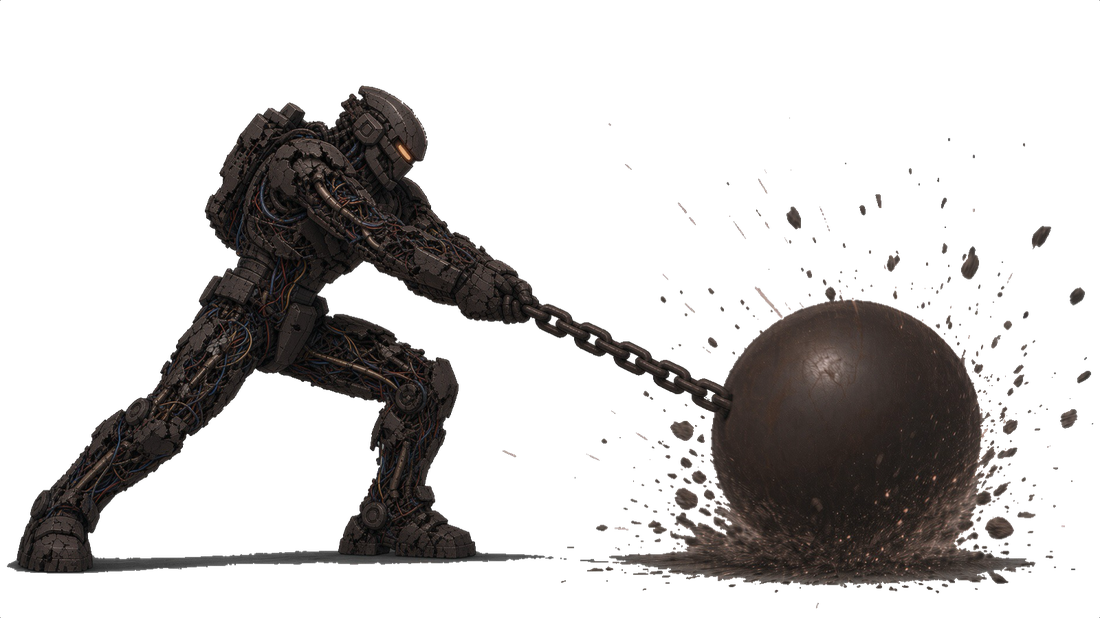
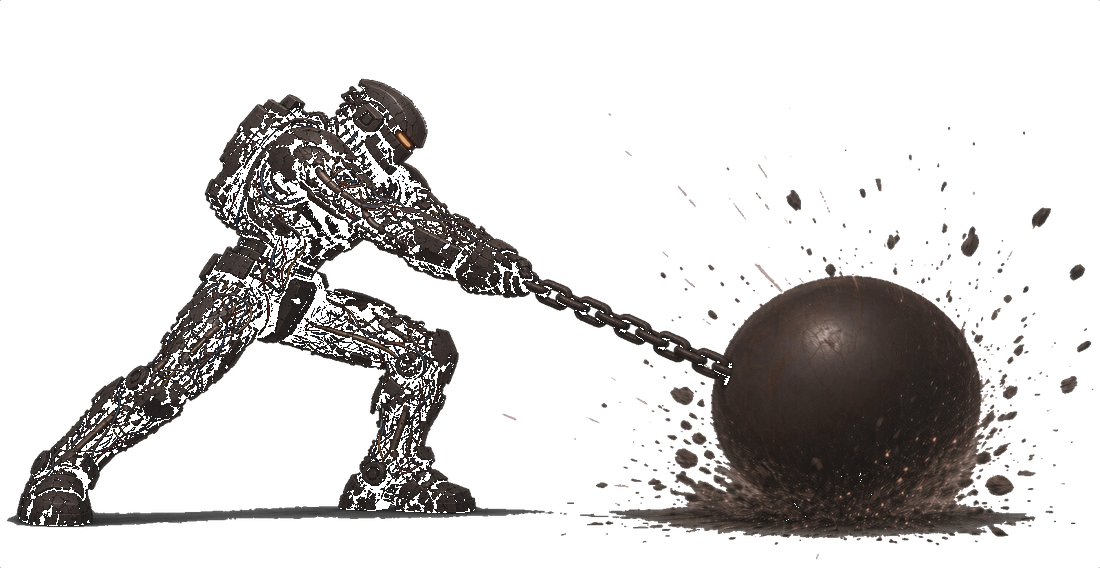
Revertir el recorte que dejó fondo gris en Óxido.

Changed region(s): [[0.0309, 0.1496, 0.4945, 0.8979], [0.5255, 0.8979, 0.5564, 0.9278], [0.0309, 0.8979, 0.0618, 0.9278]]

diff --git a/game.js b/game.js
@@ -961,13 +961,8 @@
   function cutOxidoImg(img) {
     if (!img) return img;
     var src = img.src || "";
-    // PNG poses already have edge bg removed; only flood-cut jpg idle / skeleton.
-    // Never use cutOutBg here — it eats dark armor and the iron ball.
-    if (src.indexOf(".png") >= 0) {
-      if (src.indexOf("esqueleto") >= 0) return cutOutNearBlack(img);
-      return img;
-    }
-    return cutOutNearBlack(img);
+    if (src.indexOf(".png") >= 0) return (img.naturalWidth && src.indexOf("esqueleto") >= 0) ? cutOutNearBlack(img) : img;
+    return cutOutBg(img);
   }
 
   function drawDamagedOxido(ctx, f, raw, ox, oy, dw, dh) {

diff --git a/index.html b/index.html
@@ -8,7 +8,7 @@
   <meta name="apple-mobile-web-app-status-bar-style" content="black-translucent" />
   <meta name="theme-color" content="#05070f" />
   <title>Peleas de Robots</title>
-  <link rel="stylesheet" href="style.css?v=27" />
+  <link rel="stylesheet" href="style.css?v=28" />
 </head>
 <body>
   <div id="app">
@@ -184,6 +184,6 @@
       </div>
     </section>
   </div>
-  <script src="game.js?v=27"></script>
+  <script src="game.js?v=28"></script>
 </body>
 </html>
